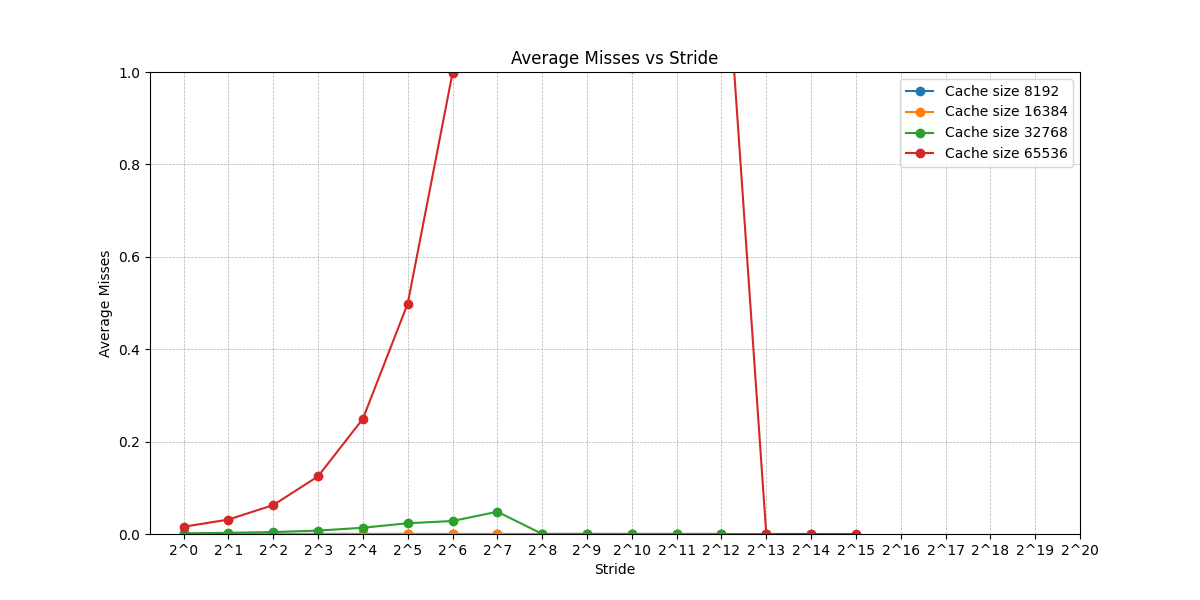
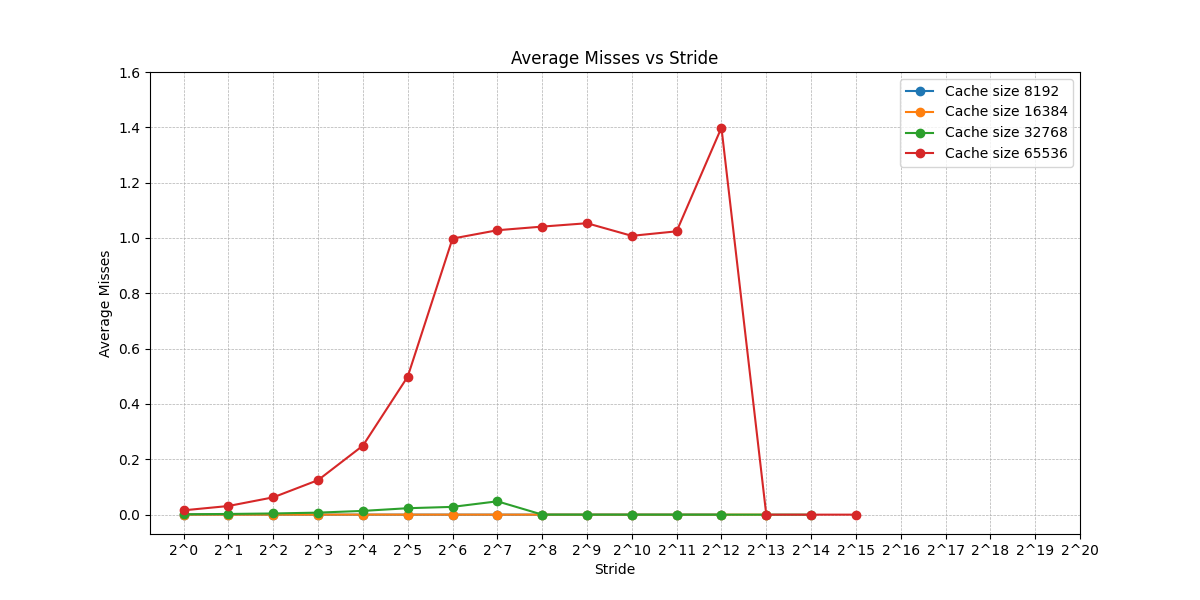
new plots

diff --git a/proj1/medicoes/ex3.1.1/to_plot.py b/proj1/medicoes/ex3.1.1/to_plot.py
@@ -22,9 +22,11 @@ plt.title("Average Misses vs Stride")
 plt.xlabel("Stride")
 plt.ylabel("Average Misses")
 
+# Customize Y-axis: 0 → ymax with steps of 0.2
+ymin, ymax = plt.ylim()
+plt.yticks(np.arange(0, ymax + 0.2, 0.2))
 # Customize Y-axis: 0 → 1.0 with steps of 0.2
-plt.yticks(np.arange(0, 1.01, 0.2))
-plt.ylim(0, 1.0)
+#plt.ylim(0, 1.0)
 
 # Customize X-axis: 2^0 → 2^20 with steps 2^x
 x_ticks = [2**i for i in range(21)]

diff --git a/proj1/medicoes/ex3.1.2/to_plot.py b/proj1/medicoes/ex3.1.2/to_plot.py
@@ -22,9 +22,11 @@ plt.title("Average Misses vs Stride")
 plt.xlabel("Stride")
 plt.ylabel("Average Misses")
 
+# Customize Y-axis: 0 → ymax with steps of 0.2
+ymin, ymax = plt.ylim()
+plt.yticks(np.arange(0, ymax + 0.2, 0.2))
 # Customize Y-axis: 0 → 1.0 with steps of 0.2
-plt.yticks(np.arange(0, 1.01, 0.2))
-plt.ylim(0, 1.0)
+#plt.ylim(0, 1.0)
 
 # Customize X-axis: 2^0 → 2^20 with steps 2^x
 x_ticks = [2**i for i in range(21)]

diff --git a/proj1/medicoes/ex3.1.2/to_excel.py b/proj1/medicoes/ex3.1.2/to_excel.py
@@ -2,7 +2,7 @@ import os
 import pandas as pd
 
 script_dir = os.path.dirname(os.path.abspath(__file__))
-file_path = os.path.join(script_dir, "cm1.out")
+file_path = os.path.join(script_dir, "ex3.1.2_novo.out")
 output_path = os.path.join(script_dir, "dados.xlsx")
 
 if os.path.exists(output_path):
